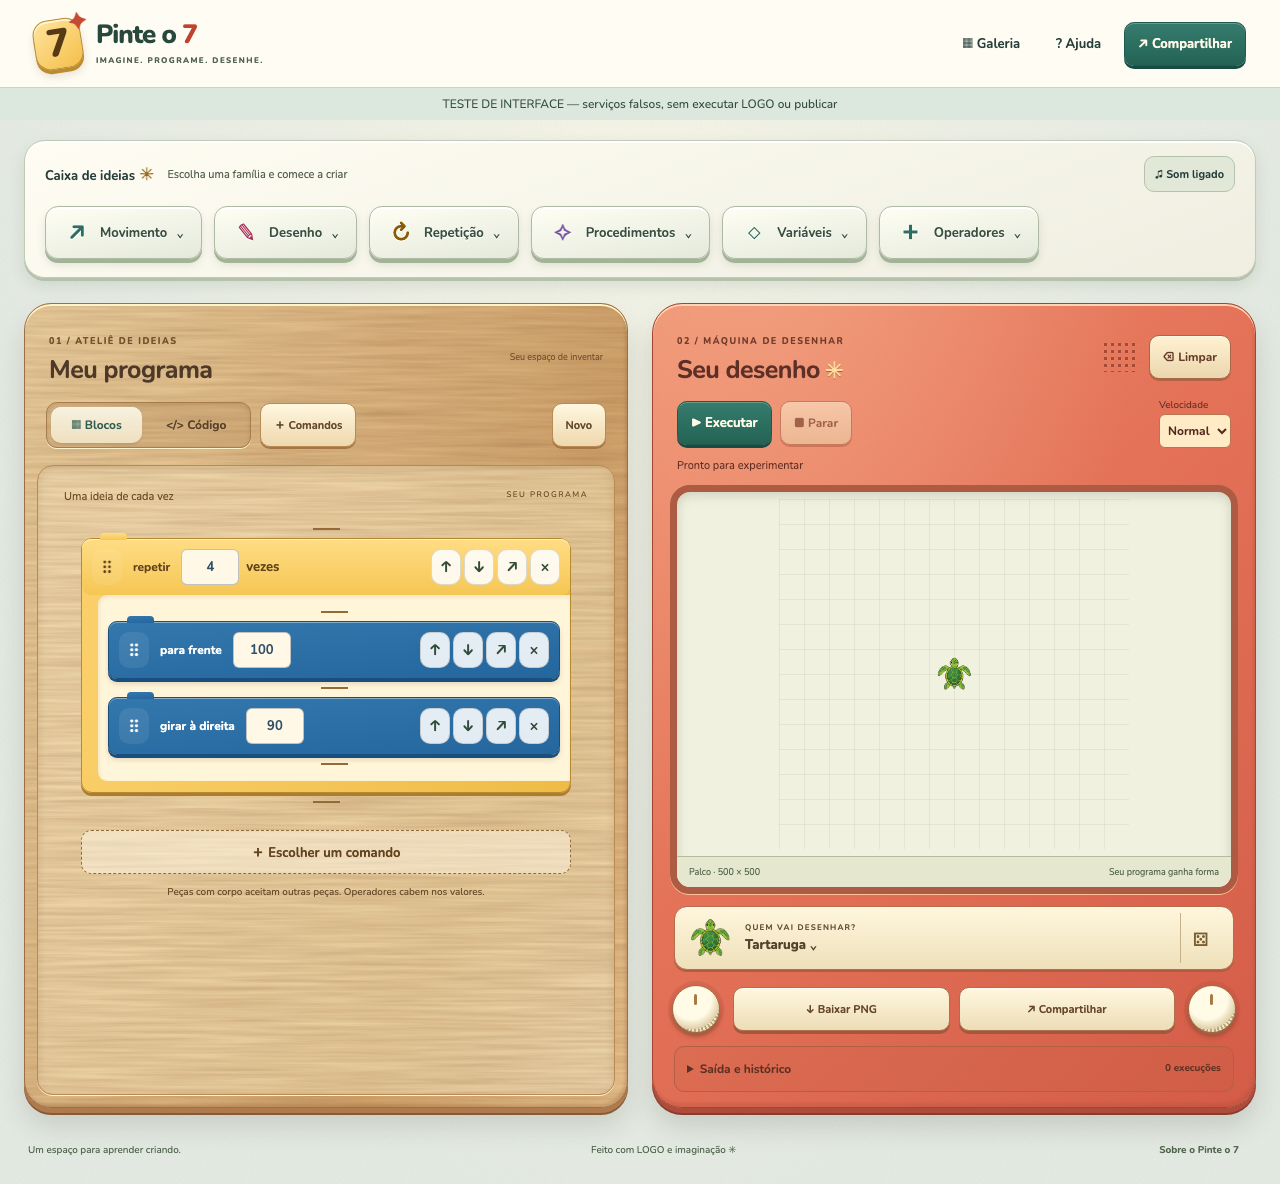
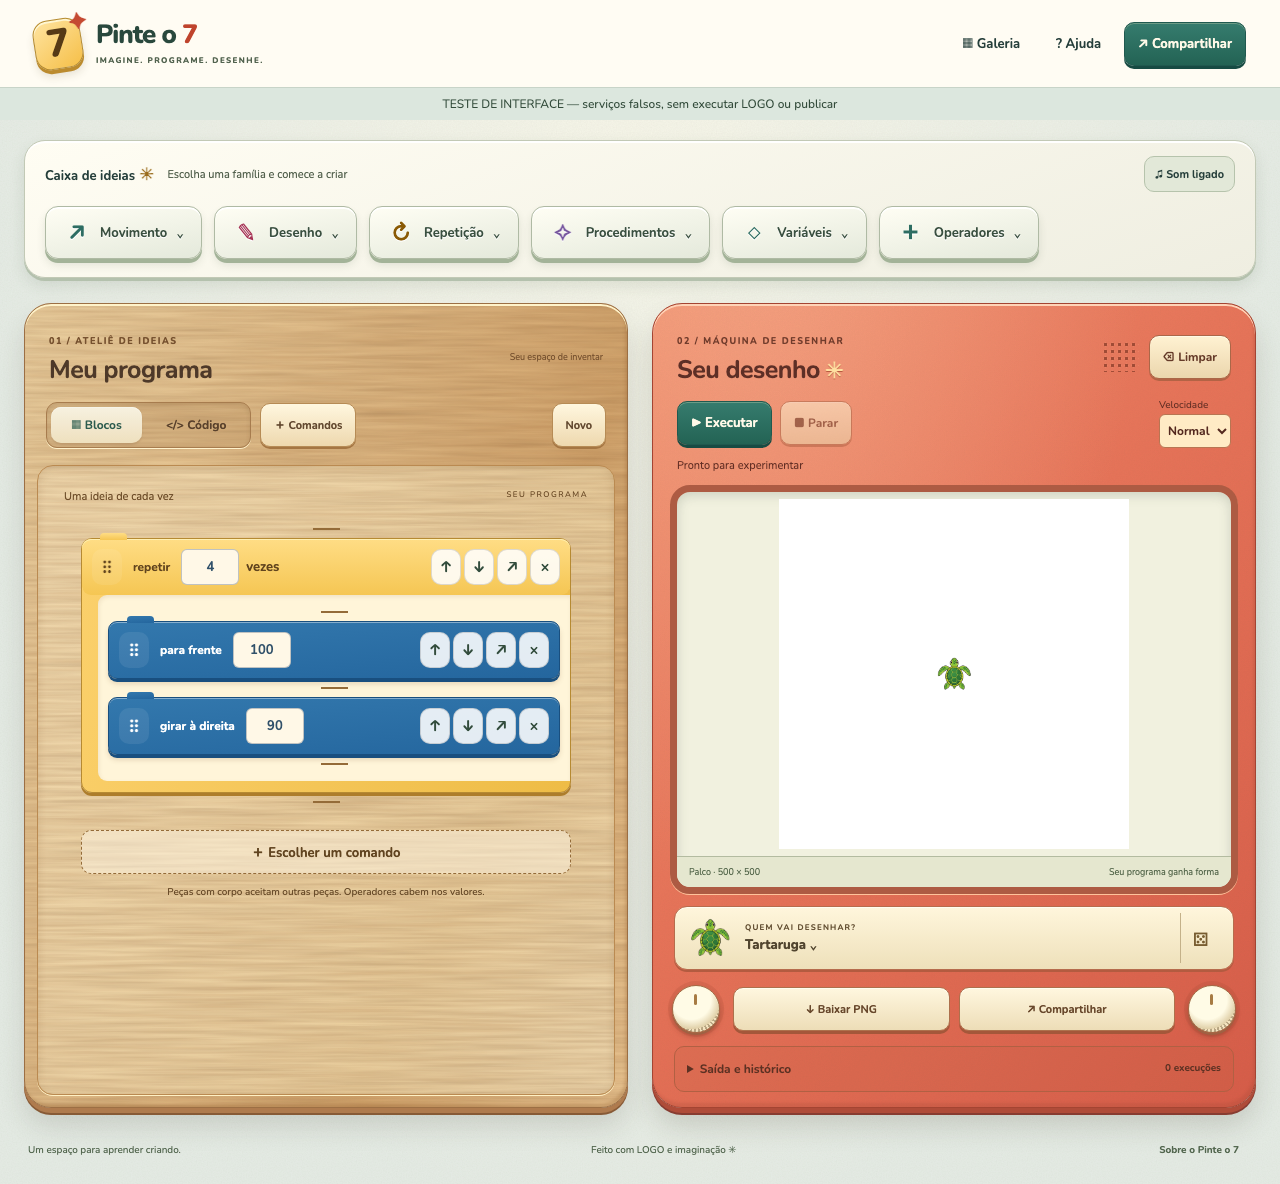
docs: registrar validação conjunta e correções da interface

Changed region(s): [[0.5938, 0.4062, 0.9062, 0.7188]]

diff --git a/docs/evidencias/t-066/INTEGRACAO.md b/docs/evidencias/t-066/INTEGRACAO.md
@@ -1,0 +1,24 @@
+# Integração e revisão — T-066
+
+Base conjunta atualizada com motor e API integrados em6d1ef995. Conflitos de package/lock/configuração foram resolvidos preservando as três frentes; versões diretas/transitivas conferidas sem atualização. Auditoria e assinaturas da árvore conjunta estão em DEPENDENCIAS.md.
+
+## Evidência conjunta
+
+- Check completo aprovado: TypeScript strict, core sem DOM, lint, formato e Knip. 254 testes em12 arquivos passaram, incluindo motor/API e seis testes de estado/preferências da UI.
+- Build web/API separado aprovado; frontend ~355 KiB de entrada, editor em chunk próprio ~329 KiB mais wrappers, sem aviso de chunk grande. TypeDoc dos módulos públicos gerado sem avisos. Allowlist confere assets locais por SHA256; nenhum PHP/CP7/fixture entra no artefato.
+- Após a correção final de foco, os16 E2E passaram em12,7s no Chromium local explicitado nas evidências. Não se usa retry/sleep para encobrir a corrida. Formato, build e allowlist foram repetidos após a alteração afetada.
+- Capturas reais nas larguras360/412/768/1280 inspecionadas; mouse, teclado, toque emulado, áudio original/silêncio, foco, fonte preservada, erro/retry, renderer real e DPR cobertos no escopo declarado.
+
+## Achados resolvidos e racional
+
+A revisão do coordenador corrigiu Limpar sem reiniciar histórico, falta de preferências e Escape que podia confirmar o campo durante blur. Uma revisão dirigida independente do carregamento assíncrono confirmou StrictMode, import atrasado, callbacks recentes e desmontagem antecipada sem editor residual.
+
+A mesma revisão encontrou canvas preso em350px ao reduzir contêiner a304px: observar o próprio canvas era insuficiente porque o renderer escreve tamanho inline. Stage passou a observar o contêiner e reagir a resize/resolution; sprite fora das coordenadas lógicas fica oculto. O teste usa CanvasRenderer real e verifica pixels. DPR foi emulado por CDP com resize explícito; não se alega troca física de monitor.
+
+Falha de import do editor conserva texto copiável e permite uma URL alternativa estática. Se essa tentativa falhar, o botão é desativado; não se promete limpar o cache de dependências ESM nem se exige reload descartando a fonte. Sem loader genérico ou URLs externas.
+
+A primeira bateria conjunta de16 E2E revelou uma corrida de foco após edição/reordenação (15 passaram). O foco era aplicado por requestAnimationFrame e podia roubar a seleção seguinte. Agora ele acompanha o commit React em useLayoutEffect e é consumido uma vez. A regressão segura callbacks atrasados de propósito e comprova foco/ordem sem espera artificial; a bateria completa passou depois.
+
+## Limites e próximos passos
+
+Testes da interface usam conversor/runner/HTTP identificados como fakes; o renderer já é real nos testes dirigidos. Bootstrap não importa fakes. T-067 conectará serviços reais e validará os fluxos completos, inclusive entrada por link público. Produção não foi alterada. CI/merge serão registrados na fila com os identificadores efetivos.

diff --git a/docs/evidencias/t-066/DEPENDENCIAS.md b/docs/evidencias/t-066/DEPENDENCIAS.md
@@ -7,3 +7,11 @@ Resolução package-lock-only com scripts desligados antes da instalação.319 e
 npm ci --ignore-scripts instalou253 pacotes. npm audit completo zero, incluindo ferramentas. Assinaturas253 e atestados99 verificados; evidências JSON/txt neste diretório. Opcionais de outras plataformas revisados, não executados no MacARM.
 
 PragmaticDnD não foi instalado: alças Pointer Events unificam mouse/toque e permitem destinos/alternativas de teclado sem manter dois sistemas de arraste. Aceite será comportamento testado, não presença de biblioteca. Decisão coordenada com implementador da UI.
+
+## Árvore combinada com API/motor
+
+Após integrar a base6d1ef995, o lock reúne350 entradas/349 versões únicas. Foram reconferidos todos os metadados e integridades; cada nome/versão pertence à união já revisada da fundação, API e interface. Nenhuma atualização transitiva foi introduzida na resolução dos conflitos. Hono/sharp permanecem server-only; Nunito/CodeMirror continuam no frontend.
+
+npm ci --ignore-scripts instalou259 pacotes. Audit completo zero;259 assinaturas e105 atestados verificados. Registros adicionais npm-audit-integracao.json e npm-signatures-integracao.txt preservam a evidência anterior de cada frente. Único lifecycle encontrado continua fsevents opcional, desativado. Scripts não foram habilitados para resolver a instalação.
+
+CI da interface acrescenta a instalação do Chromium suportado pelo Playwright localmente fixado, apenas no runner efêmero do GitHub, e executa E2E real da UI com serviços de teste identificados. Não instala browsers ou pacotes de sistema na máquina do usuário. A integração T-067 substituirá os fakes nos fluxos de produto antes da release.
